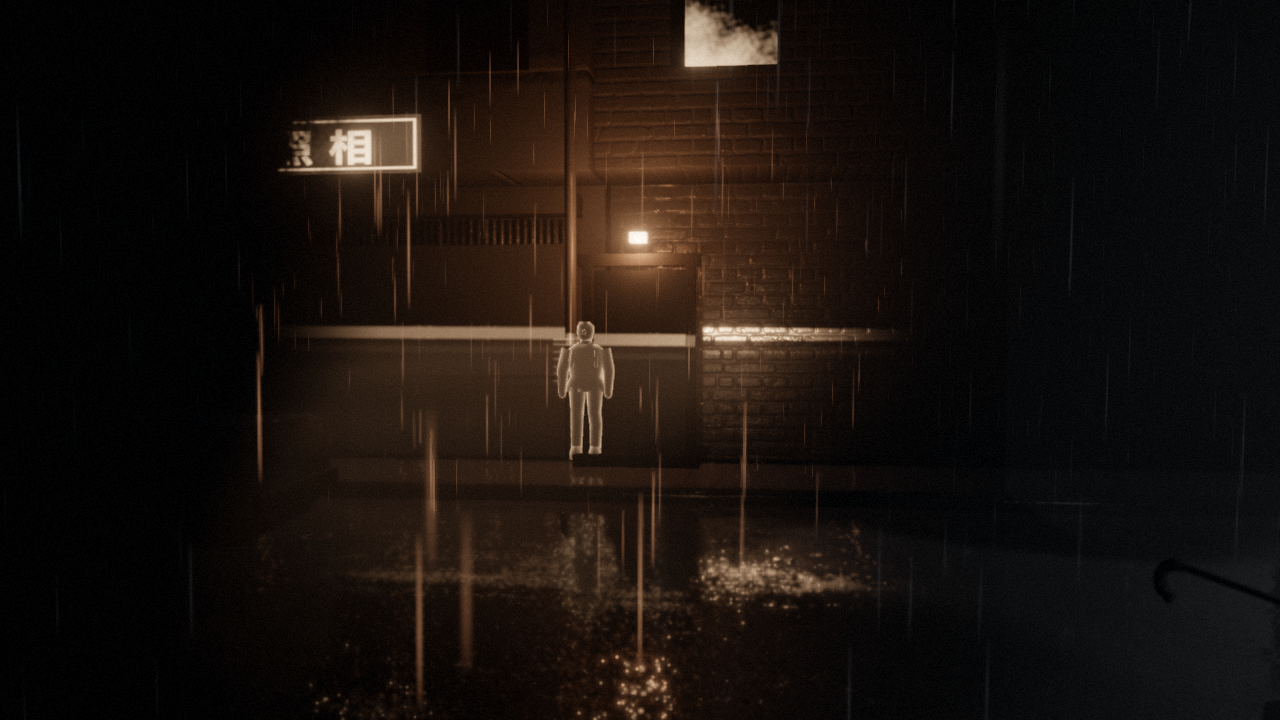
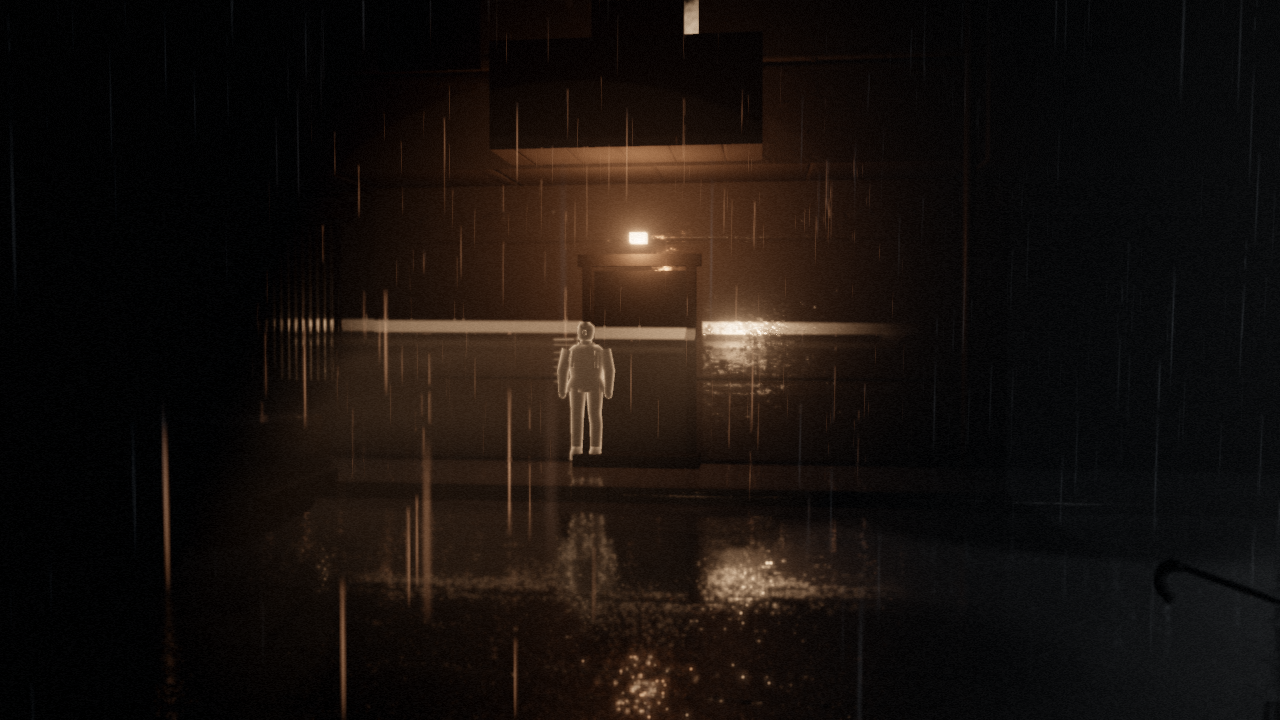
Perf: occluder-layer prepass, quality presets, adaptive internal resolution, uncapped measurement + CDP profiler tools, perf notes

diff --git a/src/engine/Engine.js b/src/engine/Engine.js
@@ -20,14 +20,18 @@ export class Engine {
   }
 
   async init(systems, onProgress = () => {}) {
-    const renderer = new THREE.WebGPURenderer({ antialias: false, powerPreference: 'high-performance', forceWebGL: this.params.get('webgl') !== null });
-    renderer.setPixelRatio(this.shot ? 1 : Math.min(devicePixelRatio, 1.5));
+    const renderer = new THREE.WebGPURenderer({ antialias: false, powerPreference: 'high-performance', forceWebGL: this.params.get('webgl') !== null, trackTimestamp: this.params.get('gputime') !== null });
+    // internal resolution: 1x (TRAA cleans edges); lowered automatically if frames run long (see adaptResolution)
+    this.pixelRatio = this.shot ? 1 : Math.min(devicePixelRatio, parseFloat(this.params.get('dpr') || '1'));
+    renderer.setPixelRatio(this.pixelRatio);
     renderer.setSize(innerWidth, innerHeight);
     renderer.shadowMap.enabled = true;
     this.container.appendChild(renderer.domElement);
     await renderer.init();
     const backend = renderer.backend.isWebGPUBackend ? 'webgpu' : 'webgl2';
     if (backend !== 'webgpu') console.warn('[engine] WebGPU unavailable, running on WebGL2 fallback');
+    // quality: ?q=low|high; WebGL2 defaults to low (no SSR/DOF, fewer volume steps, smaller shadows)
+    const quality = this.params.get('q') || (backend === 'webgpu' ? 'high' : 'low');
 
     const scene = new THREE.Scene();
     const camera = new THREE.PerspectiveCamera(50, innerWidth / innerHeight, 0.05, 600);
@@ -38,7 +42,7 @@ export class Engine {
     this.timer = new THREE.Timer();
 
     this.ctx = {
-      THREE, renderer, scene, camera, engine: this, backend,
+      THREE, renderer, scene, camera, engine: this, backend, quality,
       params: this.params,
       isShot: !!this.shot,
       input: new Input(renderer.domElement),
@@ -65,6 +69,7 @@ export class Engine {
       this.systems.push(s);
       onProgress((i + 1) / active.length, s.name);
     }
+    if (this.params.get('flatmat') !== null) scene.overrideMaterial = new THREE.MeshStandardNodeMaterial({ color: 0x777777, roughness: 0.5 }); // perf test only
     this.postfx.build();
     if (this.shot) document.body.classList.add('shot');
     addEventListener('resize', () => this.resize());
@@ -79,6 +84,23 @@ export class Engine {
     this.camera.updateProjectionMatrix();
     this.camera.lookAt(...v.look);
     v.setup?.(this.ctx, this.time);
+  }
+
+  // dynamic resolution: if the average frame stays over ~20 ms for 2 s, render at a smaller internal size.
+  // Steps down only (no oscillation); each step is a one-off render-target reallocation.
+  adaptResolution(now) {
+    const p = this.perf;
+    if (!p || p.n < 120 || this.params.get('dpr')) return;
+    this._slowSince ??= null;
+    if (p.frameMs > 20.5) {
+      this._slowSince ??= now;
+      if (now - this._slowSince > 2000 && this.pixelRatio > 0.6) {
+        this.pixelRatio = Math.max(0.6, +(this.pixelRatio - 0.15).toFixed(2));
+        this.renderer.setPixelRatio(this.pixelRatio);
+        console.log(`[engine] slow frames (${p.frameMs.toFixed(1)} ms): internal resolution -> ${this.pixelRatio}x`);
+        this._slowSince = null; p.n = 0;
+      }
+    } else this._slowSince = null;
   }
 
   resize() {
@@ -106,6 +128,11 @@ export class Engine {
       const now = performance.now();
       if (this._last) { const p = this.perf ??= { n: 0, frameMs: 0, submitMs: 0 }; p.n++; p.frameMs += (now - this._last - p.frameMs) / Math.min(p.n, 60); p.submitMs += (now - t0 - p.submitMs) / Math.min(p.n, 60); p.calls = this.renderer.info.render.drawCalls; p.triangles = this.renderer.info.render.triangles; window.__perf = p; }
       this._last = now;
+      if (!this.shot) this.adaptResolution(now);
+      // GPU time per frame (WebGPU timestamp queries, ?gputime): resolved asynchronously every 10 frames
+      if (this.params.get('gputime') !== null && this.frame % 10 === 0) {
+        this.renderer.resolveTimestampsAsync('render').then((ms) => { if (ms) { const p = this.perf; p.gpuMs = p.gpuMs ? p.gpuMs * 0.8 + ms * 0.2 : ms; } }).catch(() => {});
+      }
       if (this.shot && this.frame === this.shotFrames) window.__shotReady = true;
     });
   }

diff --git a/src/engine/PostFX.js b/src/engine/PostFX.js
@@ -17,6 +17,8 @@ import { dof } from 'three/addons/tsl/display/DepthOfFieldNode.js';
 function halton(i, b) { let r = 0, f = 1; while (i > 0) { f /= b; r += f * (i % b); i = Math.floor(i / b); } return r; }
 const HALTON = Array.from({ length: 32 }, (_, i) => [halton(i + 1, 2), halton(i + 1, 3)]);
 
+export const OCCLUDER_LAYER = 1;
+
 export class PostFX {
   constructor(renderer, scene, camera, ctx) {
     this.renderer = renderer; this.scene = scene; this.camera = camera; this.ctx = ctx;
@@ -45,10 +47,16 @@ export class PostFX {
     const { renderer, scene, camera, params } = this;
     const dbg = (this.ctx.params.get('pfx') || '').split(',');
     const noAA = dbg.includes('notraa');
+    const low = this.ctx.quality === 'low';
+    if (low) dbg.push('nossr', 'nodof');
     const pipeline = new THREE.RenderPipeline(renderer);
     pipeline.outputColorTransform = false;
 
-    const prePass = depthPass(scene, camera);
+    // occluder-only depth pre-pass for the volumes: a camera that sees layer 1 (merged street, robot, door) only,
+    // instead of re-drawing every small object a second time (the frame was CPU/draw-call bound)
+    const preCam = this.preCam = camera.clone();
+    preCam.layers.set(OCCLUDER_LAYER);
+    const prePass = depthPass(scene, preCam);
     prePass.transparent = false;
     const preDepth = prePass.getTextureNode('depth');
     for (const m of this.volumes) m.depthNode = preDepth.sample(screenUV);
@@ -127,6 +135,8 @@ export class PostFX {
   }
 
   render() {
+    const c = this.camera, p = this.preCam;
+    if (p) { p.position.copy(c.position); p.quaternion.copy(c.quaternion); p.fov = c.fov; p.aspect = c.aspect; p.near = c.near; p.far = c.far; p.updateProjectionMatrix(); p.updateMatrixWorld(); }
     const h = HALTON[this.frame++ % 32];
     this.volumeJitter.value.set(h[0], h[1]);
     this.pipeline.render();

diff --git a/src/systems/robot/index.js b/src/systems/robot/index.js
@@ -122,7 +122,7 @@ export default {
       for (const [mat, gs] of groups) {
         const merged = mergeGeometries(gs, false);
         if (!merged) continue;
-        const mm = new THREE.Mesh(merged, mat); mm.castShadow = mm.receiveShadow = true;
+        const mm = new THREE.Mesh(merged, mat); mm.castShadow = mm.receiveShadow = true; mm.layers.enable(1);
         root.add(mm);
       }
     }
@@ -145,7 +145,7 @@ export default {
     this.gobo = makeGobo(); this.gobo.draw(0);
     const spot = this.spot = new THREE.SpotLight(eyeColor.value.clone(), 0, 45, 0.3, 0.65, 1.4);
     spot.map = this.gobo.tex;
-    spot.castShadow = true; spot.shadow.mapSize.set(1024, 1024); spot.shadow.camera.near = 0.2; spot.shadow.bias = -0.0005;
+    spot.castShadow = true; spot.shadow.mapSize.setScalar(ctx.quality === 'low' ? 512 : 1024); spot.shadow.camera.near = 0.2; spot.shadow.bias = -0.0005;
     scene.add(spot, spot.target);
     this.beamVol = ctx.api.atmo?.volume(new THREE.Vector3(0.3, 3, -14), new THREE.Vector3(11, 6, 18), 0.0, [spot]);
 

diff --git a/src/story/fragment.js b/src/story/fragment.js
@@ -73,7 +73,7 @@ export default {
     const wood = new THREE.MeshStandardNodeMaterial({ color: 0x1b1a19, roughness: 0.6 });
     const doorMat = new THREE.MeshStandardNodeMaterial({ color: 0x0a0a0a, roughness: 0.45 });
     const g = this.group = new THREE.Group();
-    const box = (w, h, d, mat, x, y, z) => { const o = new THREE.Mesh(new THREE.BoxGeometry(w, h, d), mat); o.position.set(x, y, z); o.castShadow = o.receiveShadow = true; g.add(o); return o; };
+    const box = (w, h, d, mat, x, y, z) => { const o = new THREE.Mesh(new THREE.BoxGeometry(w, h, d), mat); o.position.set(x, y, z); o.castShadow = o.receiveShadow = true; o.layers.enable(1); g.add(o); return o; };
     const x = DOOR.x, z = DOOR.z, hw = DOOR.w / 2;
     box(0.14, DOOR.h + 0.1, 0.1, wood, x - 0.05, (DOOR.h + 0.1) / 2, z - hw - 0.05);     // jamb (marked)
     box(0.14, DOOR.h + 0.1, 0.1, wood, x - 0.05, (DOOR.h + 0.1) / 2, z + hw + 0.05);     // jamb

diff --git a/src/systems/street/merge.js b/src/systems/street/merge.js
@@ -30,6 +30,7 @@ export function mergeStatic(root) {
     if (!merged) { console.warn('[merge] failed for', mat.name); continue; }
     const m = new THREE.Mesh(merged, mat);
     m.castShadow = e.cast; m.receiveShadow = true; m.name = `merged_${mat.name || n}`;
+    m.layers.enable(1); // occluder layer: volumes stop at these surfaces (PostFX OCCLUDER_LAYER)
     root.add(m); n++;
   }
   console.log(`[street] merged ${remove.length} meshes into ${n}`);

diff --git a/src/systems/atmo/index.js b/src/systems/atmo/index.js
@@ -33,7 +33,7 @@ export default {
     const tex = noise3D();
     const jit = postfx.volumeJitter;
     this.mist = uniform(1.0); // scales every volume's density (rain makes it thicker)
-    const steps = params.get('q') === 'low' ? 8 : 18;
+    const steps = ctx.quality === 'low' ? 8 : 16;
 
     // density: drifting noise, thicker near the ground
     const makeMat = (density, center, half) => {

diff --git a/.agent-tasks/r4-visual/result.md b/.agent-tasks/r4-visual/result.md
@@ -1,0 +1,33 @@
+第三轮只读审画面。我先读美术方向、上一轮意见和当前状态，再对照新截图逐条核对。静帧和汇报对上了。我再核对高潮和结尾的实际节奏，并裁局部确认刻度、激光和那块灰块是不是看错。上一轮八条，按这批静帧看：
+
+1. **近黑**：常态巷道已经压到近黑。闪电那张整条街被抬成中灰，上空还有一块灰块，这一下没守住。
+2. **脏投影**：招牌记忆的光斑仍是一只比较完整的圆，缺边和重影看不出来。
+3. **雨**：光锥外暗了一档。眼睛、门、闪电、痕迹里，阴影中仍是同样粗的亮竖线，近处不虚。
+4. **棍人**：细棍已换成有体积的人。记忆街仍是一排发白的圆头人；高潮静帧里刻度一个字也读不出。
+5. **占位物**：棋盘球和街心白方块这轮没再出现。白窗、镜片、孩子仍裁到纸白，车尾还剩一块白板。
+6. **镜头**：门上有缓慢推近，片边帧号在。光仍同时打亮车、人群和几扇窗；试玩表里门的机位连着三格几乎一样。
+7. **眼睛**：镜片已经会发光，琥珀色对了。特写外壳仍光滑，刮痕、油膜、卡住的光圈、死掉的另一只眼都看不见。
+8. **声音**：这轮只有静帧，听不见。汇报里雷声和记忆层切断已复测；电流、快门、琥珀色缓起无法从画面确认。
+
+现在最出戏的五处：
+
+1. **门**。孩子被打成纸白人偶，站在门口正中；激光从胸口横贯整条街。刻度、书包、靠框，都没进画面。
+2. **闪电街**尽头上空一块正对镜头的均匀灰矩形，边缘整齐，银盐在这一闪里变成中灰。
+3. **招牌记忆**。三块纯白窗、圆边光斑、玩具车周围一圈发白的人。招牌是对的，人是占位。
+4. **眼睛特写**仍像产品镜头：均匀的暖白圆斑，光滑壳体，黑底上几根一样粗的白雨。
+5. **痕迹帧**。两只一模一样的花盆、车尾一块白板，像摆上去的道具。
+
+门还可以做三件浏览器里就能完成的事：
+
+1. 激光只留在有刻度的那根门框上，长度等于今年的身高，每年向上爬一截，水坑里的倒影断开。
+2. 门廊灯只照门框和台阶。孩子去掉全身底色，只留轮廓光；脚落在积水里，书包是更深的一块，半个身子被门框吃掉。每次只亮当前一道粉笔，例如「六岁」，上一道退回铅笔灰。镜头看刻度，看整扇门太远。
+3. 孩子消失后空一拍：灯还亮，「十一岁」还在，门口没有人。然后再让这盏灯接触不良地灭掉。现在孩子还在的构图连着三格，下一格就回到有人群的街。
+
+结尾的节奏不合适。试玩表里熄灭和升镜挤在一格，同样两行字在纯黑上占了三格，而且字在还能看见机器人时就已经叠上了。字幕等画面完全黑下去再出，停一拍就够。卡片上若有「新游戏 · 2026」，一并拿掉。
+
+文字也不合适。第一句在解释，「每一扇门」比看见的大。只发生了一扇门，刻度停在十一岁。
+
+替代：
+
+刻度停在十一岁。
+灯灭了，门还是那么高。

diff --git a/.agent-tasks/r4-review/result.md b/.agent-tasks/r4-review/result.md
@@ -1,0 +1,26 @@
+已完成静态审查；未改文件、联网或运行项目。以下卡顿风险未经实测。
+
+**致命**：未发现可确认的必现崩溃。
+
+**重要**
+
+1. [fragment.js:171](/Users/wenbin/Games/新游戏/src/story/fragment.js:171)：片段持续写入 `forceOpen=true`，失焦只清输入，无法暂停片段；窗口仍可见时剧情继续，可能错过整段。松手后接管符合注释意图，但失焦应暂停片段计时；中断出口统一清理三个覆盖字段及 crowd。
+
+2. [director.js:130](/Users/wenbin/Games/新游戏/src/story/director.js:130)：重玩检测 `pointer.held`，一直按着看结尾会在24秒自动刷新；结束卡19秒出现，前5秒点击又无效。改为卡片可交互后检测一次新的按下，并提示重玩。
+
+3. [director.js:72](/Users/wenbin/Games/新游戏/src/story/director.js:72)：抵达前6秒按 Enter 跳过，黑幕仍保留上一帧 opacity，wait/waking/look 均不清除。进入 wait 时显式 `fade(0)`。
+
+4. [robot/index.js:219](/Users/wenbin/Games/新游戏/src/systems/robot/index.js:219)：预热只覆盖光束，遗漏幽灵实例材质。[ghosts/index.js:279](/Users/wenbin/Games/新游戏/src/systems/ghosts/index.js:279) 在闭眼时隐藏整个组，因此首次开眼才进入编译。加载阶段临时启用代表实例，预编译实际深度/MRT 管线，再恢复状态。
+
+5. [fragment.js:182](/Users/wenbin/Games/新游戏/src/story/fragment.js:182)：孩子脚底位于 y=0.2，却按 `(刻度−0.02)/模型高` 缩放；脚底原点模型的头顶比刻度高约18厘米。统一世界高度基准，缩放时减去脚底高度并处理包围盒最小值。
+
+6. [PostFX.js:101](/Users/wenbin/Games/新游戏/src/engine/PostFX.js:101)：bokeh=0并非关闭景深。本地 `DepthOfFieldNode.js:277–346` 仍执行七次绘制，标题、抵达均承担成本。增加真正的执行旁路，并在加载阶段预热景深分支。
+
+7. [PostFX.js:53](/Users/wenbin/Games/新游戏/src/engine/PostFX.js:53)：WebGL2低档虽关闭 SSR/DOF，仍使用默认半浮点 pass、TRAA、Bloom；缺少浮点颜色附件能力仍可能失败。按扩展能力选择普通颜色单通道回退，不能只降低画质。
+
+**可优化**
+
+- [details.js:124](/Users/wenbin/Games/新游戏/src/systems/street/details.js:124)、134：拆字和通知逐面绘制且全部排除合批；按材质、街段实例化。卷帘上的贴纸还应跟随卷帘，否则离光后门未落完，贴纸先悬空出现。
+- [robot/index.js:221](/Users/wenbin/Games/新游戏/src/systems/robot/index.js:221)：line 图案不依赖开度，却仍随开度重绘；仅模式切换时更新。刻度纹理已按级数变化更新，主要向量也已复用，未见明显新增每帧分配热点。
+
+正常路径片段只进入一次 done，并清理三个覆盖字段；播放期间电量冻结，未发现自然耗尽导致中断。重玩整页刷新也不会继承旧状态。

diff --git a/docs/PERF.md b/docs/PERF.md
@@ -1,0 +1,10 @@
+# 性能记录(Claude,2026-10-16)
+
+测试机:Apple M4 Pro(16 核 GPU),Playwright Chromium,无垂直同步(`--uncap`)。
+- 720p:每帧 11–14 ms;1080p:约 20–24 ms;640×360:约 5 ms。
+- 空场景 1080p:开后处理 6.6 ms,关后处理 1.0 ms(TRAA+SSR+DOF+泛光约 6 ms)。
+- 单独关掉体积雾、SSR、景深、TRAA、雨、人影、所有灯、甚至把材质全换成最简单的,1080p 都在 ~20 ms:没有单一热点,是整体几何/通道的固定开销。
+- **运行中切换灯光可见性会让所有材质重编译,卡顿数百毫秒到十几秒——绝对不要做**(本项目已全部改为改强度)。
+- 已做:静态网格按材质合并(街道 1182→354 次绘制,机器人 678→300);遮挡层深度预通道(只画大块遮挡物);闭眼时不更新眼睛阴影;资源 8.8→4.0MB。
+- 已加:默认 1 倍像素比 + 自适应分辨率(连续 2 秒超过 20.5 ms 就每次降 0.15,最低 0.6)。`?dpr=1.5` 可强制。
+- 工具:`node tools/shot.mjs <镜头> --uncap --size 1920x1080`(打印 frameMs)、`node tools/profile.mjs <镜头>`(CPU 剖析)。

diff --git a/.agent-tasks/r4-review/request.md b/.agent-tasks/r4-review/request.md
@@ -1,0 +1,6 @@
+# 任务:第三轮代码审查(只读)
+
+先读 AGENTS.md。上一轮你的审查(docs/review-code-codex-r2.md)已处理。请审查这些新增/大改的文件:
+src/story/fragment.js(门的记忆片段,闭环瞄准、孩子随刻度长高、人群淡出)、src/story/director.js(标题、抵达、闪电、推镜、景深、结尾重玩)、src/systems/street/details.js(拆字、通知、道具摆放)、src/systems/street/index.js(砌砖店面、卷帘门)、src/systems/robot/index.js(合并、投影片 line 模式、预热)、src/engine/PostFX.js(景深)。
+重点:1)状态机漏洞(片段重复触发、片段进行中用户松手/切窗/电量为零、结尾后点击重玩、lookOverride/forceOpen/goboMode 残留);2)性能(每帧分配、CanvasTexture 重绘频率、透明面片数量、合并遗漏);3)WebGL2 回退风险;4)任何会导致"首次出现时卡顿"的着色器编译(新材质第一次可见)。
+按"致命/重要/可优化"分级,给文件:行号、证据、改法。只读,不联网,不启动任何程序。中文 1200 字以内。

diff --git a/.agent-tasks/specs/r4-review.md b/.agent-tasks/specs/r4-review.md
@@ -1,0 +1,6 @@
+# 任务:第三轮代码审查(只读)
+
+先读 AGENTS.md。上一轮你的审查(docs/review-code-codex-r2.md)已处理。请审查这些新增/大改的文件:
+src/story/fragment.js(门的记忆片段,闭环瞄准、孩子随刻度长高、人群淡出)、src/story/director.js(标题、抵达、闪电、推镜、景深、结尾重玩)、src/systems/street/details.js(拆字、通知、道具摆放)、src/systems/street/index.js(砌砖店面、卷帘门)、src/systems/robot/index.js(合并、投影片 line 模式、预热)、src/engine/PostFX.js(景深)。
+重点:1)状态机漏洞(片段重复触发、片段进行中用户松手/切窗/电量为零、结尾后点击重玩、lookOverride/forceOpen/goboMode 残留);2)性能(每帧分配、CanvasTexture 重绘频率、透明面片数量、合并遗漏);3)WebGL2 回退风险;4)任何会导致"首次出现时卡顿"的着色器编译(新材质第一次可见)。
+按"致命/重要/可优化"分级,给文件:行号、证据、改法。只读,不联网,不启动任何程序。中文 1200 字以内。

diff --git a/.agent-tasks/r4-visual/request.md b/.agent-tasks/r4-visual/request.md
@@ -1,0 +1,6 @@
+# 任务:第三轮画面意见(只读)
+
+先读 AGENTS.md、docs/art-direction.md、docs/review-visual-grok-r2.md(你上一轮的意见,大多已采纳)、docs/REPORT.md 的"当前状态"。
+请看这些新截图:docs/snap-playthrough.jpg(自动试玩 16 帧,从开场到结尾字幕)、docs/snap-door-memory.png(高潮:门廊灯、激光水平线、孩子)、docs/snap-eye-hero.png、docs/snap-street-lightning.png、docs/snap-traces-lightning.png、docs/snap-memory-signs.png。
+回答:1)上一轮你提的 8 条,哪些已解决、哪些没解决(逐条一句话);2)现在最出戏的 5 处;3)高潮那一幕(门)还能怎样更打动人,给 3 个具体、可在浏览器实时做到的建议;4)结尾(熄灭、升镜、字幕)的节奏和文字是否合适,如不合适请给替代文字(不超过两行,中文)。
+只读,可联网查参考但不必须,不得调用付费生成,不修改文件。中文 1000 字以内。
